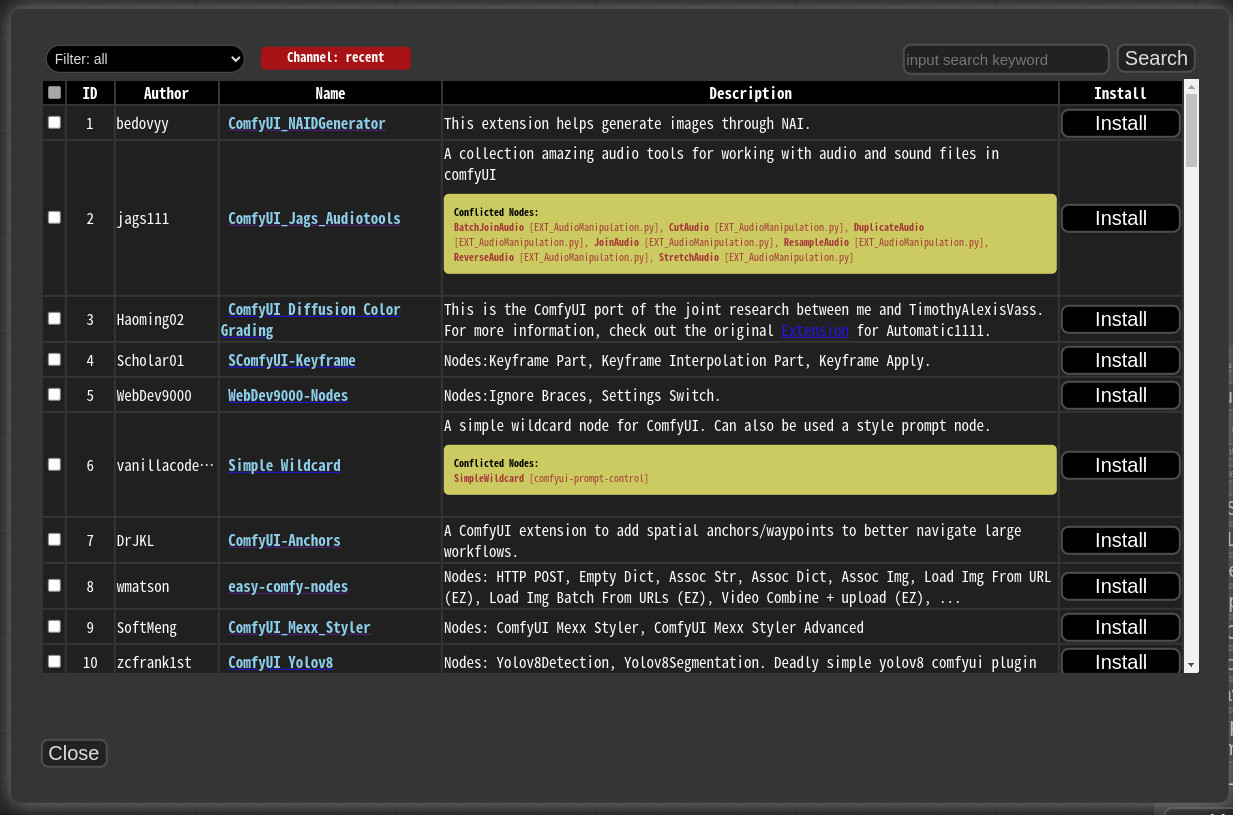
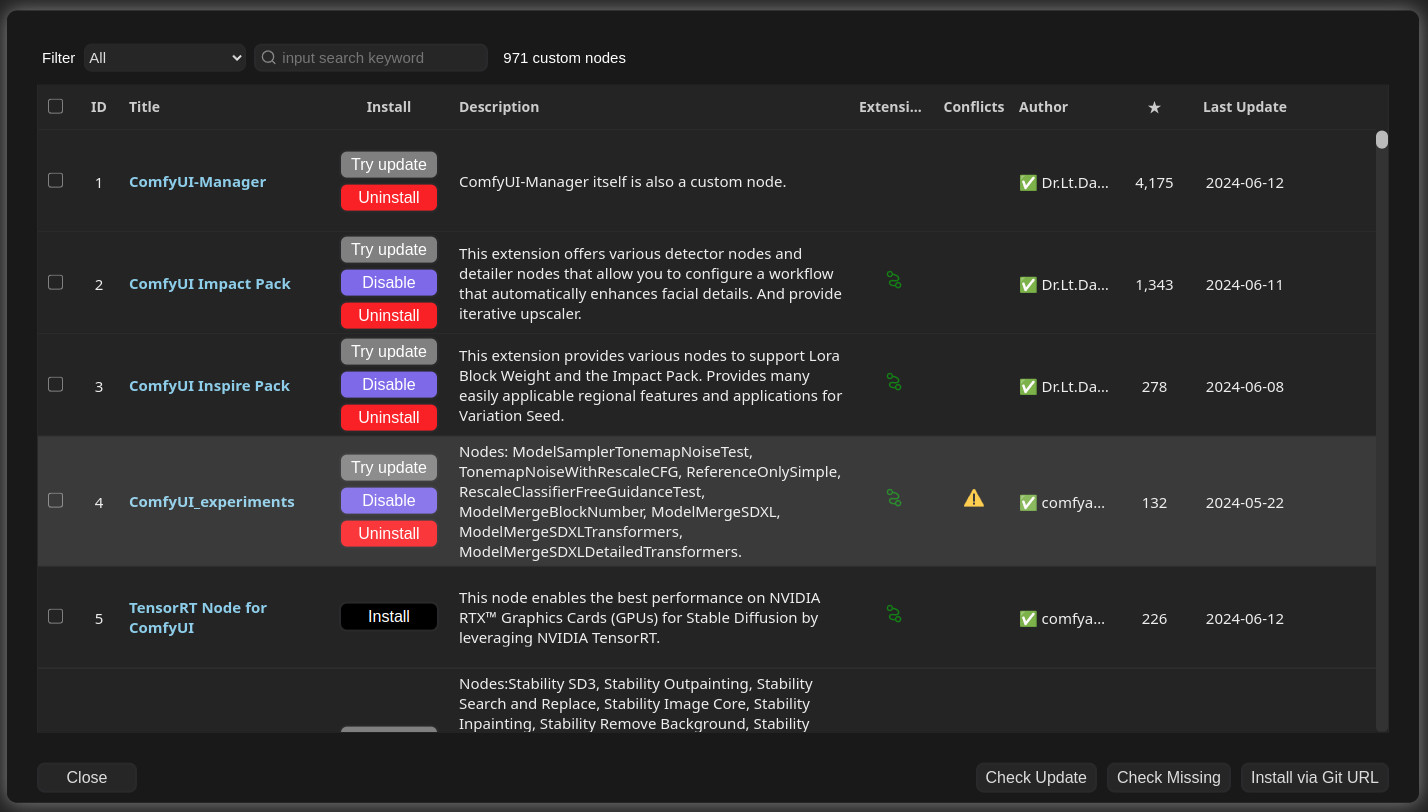
update README and version

diff --git a/glob/manager_core.py b/glob/manager_core.py
@@ -23,7 +23,7 @@ sys.path.append(glob_path)
 import cm_global
 from manager_util import *
 
-version = [2, 37, 3]
+version = [2, 38]
 version_str = f"V{version[0]}.{version[1]}" + (f'.{version[2]}' if len(version) > 2 else '')
 
 comfyui_manager_path = os.path.abspath(os.path.join(os.path.dirname(__file__), '..'))

diff --git a/README.md b/README.md
@@ -86,6 +86,7 @@ This repository provides Colab notebooks that allow you to install and use Comfy
 * Support for automatically installing dependencies of custom nodes upon restarting Colab notebooks.
 
 ## Changes
+* **2.38** `Install Custom Nodes` menu is changed to `Custom Nodes Manager`.
 * **2.21** [cm-cli](docs/en/cm-cli.md) tool is added.
 * **2.4** Copy the connections of the nearest node by double-clicking.
 * **2.2.3** Support Components System
@@ -278,11 +279,11 @@ NODE_CLASS_MAPPINGS.update({
 
 ## Support of missing nodes installation
 
-![missing-menu](misc/missing-menu.png)
+![missing-menu](misc/missing-menu.jpg)
 
 * When you click on the ```Install Missing Custom Nodes``` button in the menu, it displays a list of extension nodes that contain nodes not currently present in the workflow.
 
-![missing-list](misc/missing-list.png)
+![missing-list](misc/missing-list.jpg)
 
 
 ## Additional Feature
